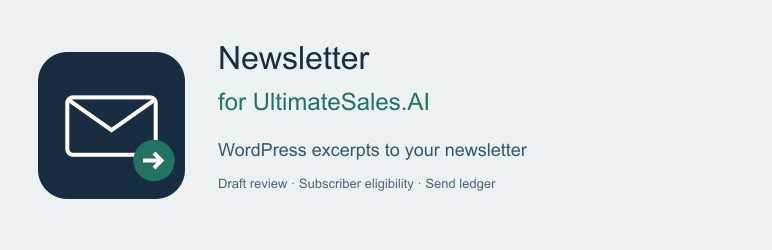
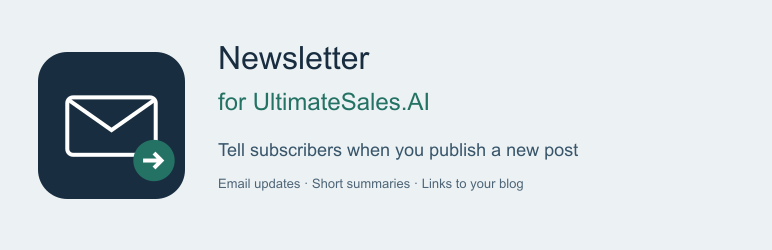
Explain new-post email notifications in plain language

Changed region(s): [[0.2798, 0.56, 0.7461, 0.644], [0.2798, 0.7, 0.6839, 0.756]]

diff --git a/cleverspeed-newsletter/cleverspeed-newsletter.php b/cleverspeed-newsletter/cleverspeed-newsletter.php
@@ -1,7 +1,7 @@
 <?php
 /**
  * Plugin Name: Newsletter for UltimateSales.AI
- * Description: Direct WordPress-to-UltimateSales.AI article newsletters, with consent checks and a durable send ledger.
+ * Description: Email your UltimateSales.AI newsletter subscribers when you publish a new WordPress post, with a link to read it.
  * Version: 0.3.2
  * Plugin URI: https://github.com/readyspace/WP-Ultimatesales.ai-Newsletter-Plugin
  * Requires at least: 6.9

diff --git a/README.md b/README.md
@@ -1,8 +1,8 @@
 # WP UltimateSales.AI Newsletter Plugin
 
-By **ReadySpace**. A direct WordPress → UltimateSales.AI newsletter bridge for UltimateSales.AI (https://ultimatesales.ai) accounts. Any editor can write the post and its Excerpt; no ChatGPT, AI summariser, Next.js email code or WordPress SMTP is required.
+By **ReadySpace**. Let your UltimateSales.AI email subscribers know when you publish a new WordPress blog post. After setup, the plugin can automatically prepare an email with the post title, a short summary and a link to the full article on your website. It supports standard WordPress and headless sites whose public article paths match WordPress's post links and pass the required page checks. An UltimateSales.AI account and developer or administrator setup are required.
 
-**Next release: 0.3.2 (display-name update; not yet published). Operator setup required.** This retains the published 0.3.1 implementation and changes its display name to Newsletter for UltimateSales.AI. The approved WordPress.org slug and integration identifiers remain unchanged. This public branch removes deployment-specific settings from the earlier single-site pilot. It requires private configuration and maintainer-led provider verification. It has not been deployed over the working pilot. Multisite is not supported.
+**Next release: 0.3.2 (name and description update; not yet published). Operator setup required.** This retains the published 0.3.1 implementation, changes its display name to Newsletter for UltimateSales.AI and explains its notification features in plain language. The approved WordPress.org slug and integration identifiers remain unchanged. This public branch removes deployment-specific settings from the earlier single-site pilot. It requires private configuration and maintainer-led provider verification. It has not been deployed over the working pilot. Multisite is not supported.
 
 ## What it does
 
@@ -17,6 +17,10 @@ By **ReadySpace**. A direct WordPress → UltimateSales.AI newsletter bridge for
 - Offers Off, Draft-only and Live modes. Configuration changes invalidate verification.
 
 The plugin does **not** create signup forms, confirmation workflows, authenticated sending domains or newsletters from unconfirmed contacts. Those must already exist in the chosen account.
+
+## Future plans
+
+ReadySpace plans to add new-post sharing to WhatsApp groups, Telegram channels, Facebook Pages, LinkedIn Pages and Google Business Profile (formerly Google My Business). The aim is to share a link so readers across different channels can find the new article. **Version 0.3.2 supports email only.**
 
 ## Start here
 

diff --git a/CHANGELOG.md b/CHANGELOG.md
@@ -1,8 +1,9 @@
 # Changelog
 
-## 0.3.2 — display-name update (unreleased)
+## 0.3.2 — name and description update (unreleased)
 
 - Rename the plugin, administrator screen and directory banner to Newsletter for UltimateSales.AI.
+- Explain email notifications, article links, supported WordPress setups and setup needs in plain language. Mark other channels as future plans, not current features.
 - Retain the approved WordPress.org slug, plugin filename, text domain, ReadySpace author and every integration/storage identifier.
 - No newsletter, consent, credential, scheduling or ledger behavior changes.
 
